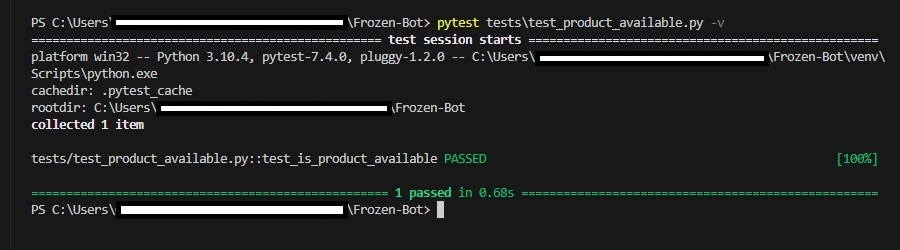
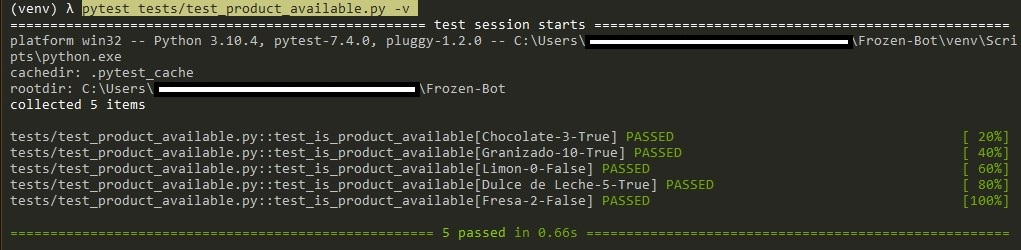
validate_discount_code function, test Ok

Changed region(s): [[0.0, 0.0, 1.0, 0.476], [0.0, 0.476, 0.9956, 0.896], [0.0, 0.896, 0.9956, 0.952]]

diff --git a/src/validate_code.py b/src/validate_code.py
@@ -1,0 +1,31 @@
+import logging
+
+# Configuración básica de logging para mostrar los mensajes en la consola
+logging.basicConfig(level=logging.DEBUG, format='%(asctime)s - %(levelname)s - %(message)s')
+logger = logging.getLogger(__name__)
+
+_AVAILABLE_DISCOUNT_CODES = ["Primavera2021", "Verano2021", "Navidad2x1", "heladoFrozen"]
+
+def validate_discount_code(discount_code):
+    """
+    Valida si un código de descuento se encuentra vigente en la lista.
+
+    :param discount_code: El código de descuento ingresado por el cliente.
+    :type discount_code: str
+
+    :return: True si la diferencia entre el código ingresado y los códigos vigentes es menor a tres caracteres
+             en al menos uno de los casos. False en caso contrario o si se produce un error durante la validación.
+    :rtype: bool
+    """
+    try:
+        return any(len(set(discount_code) ^ set(code)) < 3 for code in _AVAILABLE_DISCOUNT_CODES)
+    except Exception as e:
+        logger.error(f"Error en la validación del código de descuento: {e}")
+        return False
+
+if __name__ == "__main__":
+    
+    # Ejemplo: Diferencia menor a 3 caracteres
+    discount_code = "primavera2021"
+    result = validate_discount_code(discount_code)
+    print(result)  # Output: True

diff --git a/tests/test_product_available.py b/tests/test_product_available.py
@@ -1,19 +1,13 @@
 import pytest
-
 from src.product_available import is_product_available
 
-def test_is_product_available():
-    test_cases = [
-        {"product_name": "Chocolate", "quantity": 1, "expected_result": True},
-        {"product_name": "Granizado", "quantity": 10, "expected_result": True},
-        {"product_name": "Limon", "quantity": 0, "expected_result": False},
-        {"product_name": "Dulce de Leche", "quantity": 6, "expected_result": False},
-        {"product_name": "Invalid Product", "quantity": 3, "expected_result": False}
-    ]
-
-    for test_case in test_cases:
-        product_name = test_case["product_name"]
-        quantity = test_case["quantity"]
-        expected_result = test_case["expected_result"]
-        result = is_product_available(product_name, quantity)
-        assert result == expected_result
+@pytest.mark.parametrize("product_name, quantity, expected_result", [
+    ("Chocolate", 3, True),
+    ("Granizado", 10, True),
+    ("Limon", 0, False),
+    ("Dulce de Leche", 5, True),
+    ("Fresa", 2, False)
+    # Agrega más casos de prueba aquí
+])
+def test_is_product_available(product_name, quantity, expected_result):
+    assert is_product_available(product_name, quantity) == expected_result

diff --git a/tests/test_validate_code.py b/tests/test_validate_code.py
@@ -1,0 +1,33 @@
+import pytest
+from src.validate_code import validate_discount_code
+
+test_cases = {
+    "Test Case 1": {
+        "discount_code": "primavera2021",
+        "expected_result": True
+    },
+    "Test Case 2": {
+        "discount_code": "Helado2021",
+        "expected_result": False
+    },
+    "Test Case 3": {
+        "discount_code": "Navidad2x2",
+        "expected_result": True
+    },
+    "Test Case 4": {
+        "discount_code": "Verano2021",
+        "expected_result": True
+    },
+    "Test Case 5": {
+        "discount_code": "NAVIDAD2X1",
+        "expected_result": False
+    },
+    # Agrega más casos de prueba aquí
+}
+
+@pytest.mark.parametrize("test_name, test_data", test_cases.items())
+def test_validate_discount_code(test_name, test_data):
+    discount_code = test_data["discount_code"]
+    expected_result = test_data["expected_result"]
+
+    assert validate_discount_code(discount_code) == expected_result
